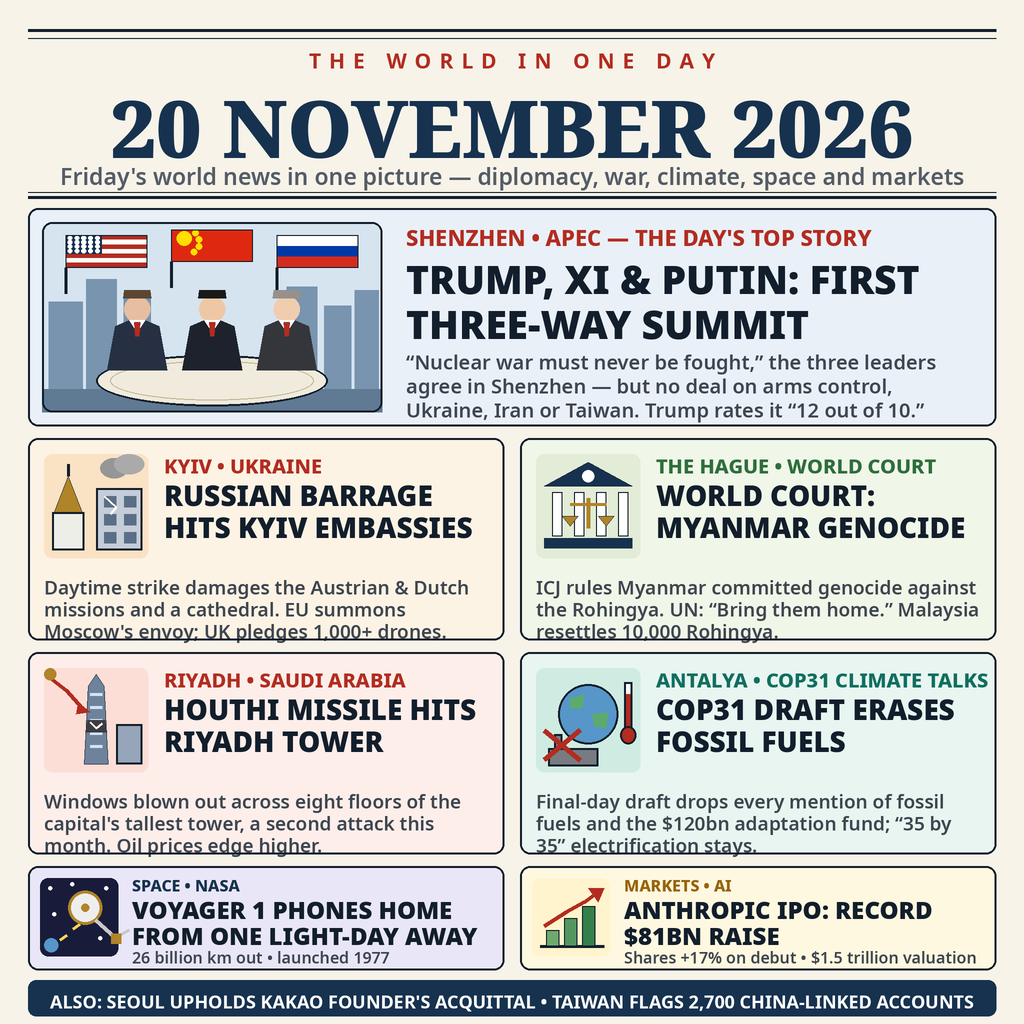
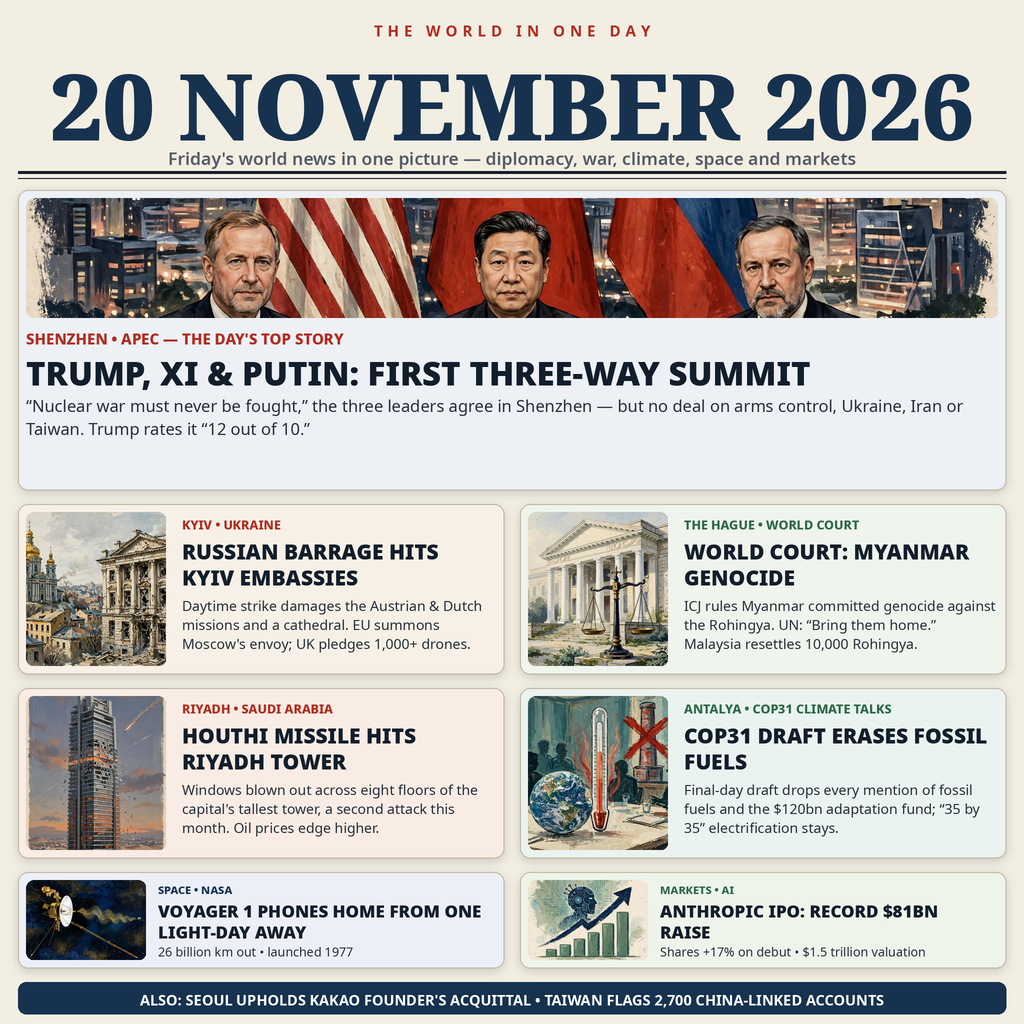
Replace entry image with illustrated v2 (painterly panels)

diff --git a/build_entry2.py b/build_entry2.py
@@ -1,0 +1,225 @@
+#!/usr/bin/env python3
+"""Version 2 of the front page for make.fun's "Sum up 20 November's
+world news in one image" bounty (news-image-20261120).
+
+Same reporting and words as build_entry.py, but the panels carry
+rich painterly illustrations (the art-*.webp files in this repo,
+drawn for this entry) instead of flat pictograms, so the page reads like an
+illustrated newspaper front page. All type is still rendered in
+code, so the date and headlines stay perfectly legible.
+
+Drawn at 2x and downscaled to 1024x1024. If the PNG would exceed
+the bounty's 1 MiB cap it is palette-quantised until it fits.
+"""
+
+import os
+
+from PIL import Image, ImageDraw, ImageFilter, ImageFont, ImageOps
+
+S = 2
+SIZE = 1024 * S
+PAPER = (243, 238, 226)
+INK = (18, 30, 43)
+NAVY = (22, 50, 79)
+RED = (178, 44, 32)
+GREEN = (46, 106, 72)
+GREY = (84, 92, 102)
+WHITE = (255, 255, 255)
+LINE = (190, 182, 160)
+
+FONT_DIR = "/usr/share/fonts/truetype/noto/"
+SERIF_BLACK = FONT_DIR + "NotoSerif-Black.ttf"
+SANS_BLACK = FONT_DIR + "NotoSans-Black.ttf"
+SANS_XBOLD = FONT_DIR + "NotoSans-ExtraBold.ttf"
+SANS_BOLD = FONT_DIR + "NotoSans-Bold.ttf"
+SANS_SEMI = FONT_DIR + "NotoSans-SemiBold.ttf"
+SANS_REG = FONT_DIR + "NotoSans-Regular.ttf"
+
+HERE = os.path.dirname(os.path.abspath(__file__))
+ASSETS = HERE
+
+
+def font(path, size):
+    return ImageFont.truetype(path, int(size * S))
+
+
+def sc(box):
+    return tuple(int(v * S) for v in box)
+
+
+class Canvas:
+    def __init__(self):
+        self.img = Image.new("RGB", (SIZE, SIZE), PAPER)
+        self.d = ImageDraw.Draw(self.img)
+
+    def rrect(self, box, radius, fill=None, outline=None, width=1):
+        self.d.rounded_rectangle(sc(box), radius=int(radius * S),
+                                 fill=fill, outline=outline,
+                                 width=int(width * S))
+
+    def line(self, pts, fill=INK, width=2):
+        self.d.line([(int(x * S), int(y * S)) for x, y in pts],
+                    fill=fill, width=int(width * S))
+
+    def text(self, pos, s, fnt, fill=INK, anchor="la"):
+        self.d.text((pos[0] * S, pos[1] * S), s, font=fnt, fill=fill,
+                    anchor=anchor)
+
+    def textw(self, s, fnt):
+        return self.d.textlength(s, font=fnt) / S
+
+
+def wrap(c, s, fnt, maxw):
+    words, lines, cur = s.split(), [], ""
+    for w in words:
+        trial = (cur + " " + w).strip()
+        if c.textw(trial, fnt) <= maxw or not cur:
+            cur = trial
+        else:
+            lines.append(cur)
+            cur = w
+    if cur:
+        lines.append(cur)
+    return lines
+
+
+def block(c, pos, s, fnt, maxw, leading, fill=INK):
+    y = pos[1]
+    for ln in wrap(c, s, fnt, maxw):
+        c.text((pos[0], y), ln, fnt, fill)
+        y += leading
+    return y
+
+
+def spaced(c, cx, y, s, fnt, fill, gap=5):
+    widths = [c.textw(ch, fnt) for ch in s]
+    total = sum(widths) + gap * (len(s) - 1)
+    x = cx - total / 2
+    for ch, w in zip(s, widths):
+        c.text((x, y), ch, fnt, fill)
+        x += w + gap
+
+
+def shadow(c, box, radius=10):
+    layer = Image.new("L", (SIZE, SIZE), 0)
+    ld = ImageDraw.Draw(layer)
+    ld.rounded_rectangle(sc((box[0], box[1] + 3, box[2], box[3] + 3)),
+                         radius=int(radius * S), fill=52)
+    layer = layer.filter(ImageFilter.GaussianBlur(5 * S))
+    c.img.paste((40, 48, 66), (0, 0), layer)
+    c.d = ImageDraw.Draw(c.img)
+
+
+def paste_art(c, name, box, centering=(0.5, 0.5), radius=8):
+    art = Image.open(os.path.join(ASSETS, name)).convert("RGB")
+    w, h = int((box[2] - box[0]) * S), int((box[3] - box[1]) * S)
+    art = ImageOps.fit(art, (w, h), Image.LANCZOS, centering=centering)
+    mask = Image.new("L", (w, h), 0)
+    md = ImageDraw.Draw(mask)
+    md.rounded_rectangle((0, 0, w, h), radius=int(radius * S), fill=255)
+    c.img.paste(art, (int(box[0] * S), int(box[1] * S)), mask)
+    c.d = ImageDraw.Draw(c.img)
+
+
+def masthead(c):
+    spaced(c, 512, 20, "THE WORLD IN ONE DAY", font(SANS_BOLD, 15), RED)
+    c.text((512, 42), "20 NOVEMBER 2026", font(SERIF_BLACK, 92),
+           NAVY, anchor="ma")
+    c.text((512, 146), "Friday's world news in one picture — diplomacy, "
+           "war, climate, space and markets", font(SANS_SEMI, 17.5),
+           GREY, anchor="ma")
+    c.line([(18, 172), (1006, 172)], INK, 3)
+    c.line([(18, 178), (1006, 178)], INK, 1)
+
+
+def hero(c):
+    box = (18, 190, 1006, 490)
+    shadow(c, box)
+    c.rrect(box, 10, fill=(237, 241, 246), outline=LINE, width=1)
+    paste_art(c, "art-hero.webp", (26, 198, 998, 318), centering=(0.5, 0.62))
+    c.text((26, 328), "SHENZHEN • APEC — THE DAY'S TOP STORY",
+           font(SANS_XBOLD, 15), RED)
+    c.text((26, 350), "TRUMP, XI & PUTIN: FIRST THREE-WAY SUMMIT",
+           font(SANS_BLACK, 33), INK)
+    block(c, (26, 394), "“Nuclear war must never be fought,” the three "
+          "leaders agree in Shenzhen — but no deal on arms control, "
+          "Ukraine, Iran or Taiwan. Trump rates it “12 out of 10.”",
+          font(SANS_REG, 16.5), 950, 23, (40, 48, 58))
+
+
+def panel(c, box, tint, art, centering, kicker, kcol, headline, sub):
+    shadow(c, box)
+    c.rrect(box, 10, fill=tint, outline=LINE, width=1)
+    x, y = box[0], box[1]
+    paste_art(c, art, (x + 8, y + 8, x + 148, y + 162),
+              centering=centering)
+    c.text((x + 164, y + 12), kicker, font(SANS_XBOLD, 12.5), kcol)
+    block(c, (x + 164, y + 33), headline, font(SANS_BLACK, 21), 312, 26)
+    block(c, (x + 164, y + 92), sub, font(SANS_REG, 14), 312, 19,
+          (40, 48, 58))
+
+
+def mini(c, box, tint, art, centering, kicker, kcol, headline, sub):
+    shadow(c, box)
+    c.rrect(box, 10, fill=tint, outline=LINE, width=1)
+    x, y = box[0], box[1]
+    paste_art(c, art, (x + 8, y + 8, x + 128, y + 88),
+              centering=centering)
+    c.text((x + 140, y + 10), kicker, font(SANS_XBOLD, 11), kcol)
+    block(c, (x + 140, y + 27), headline, font(SANS_BLACK, 17), 330, 21)
+    c.text((x + 140, y + 71), sub, font(SANS_REG, 12.5), (40, 48, 58))
+
+
+def build():
+    c = Canvas()
+    masthead(c)
+    hero(c)
+    panel(c, (18, 504, 504, 674), (247, 240, 230), "art-kyiv.webp", (0.5, 0.4),
+          "KYIV • UKRAINE", RED, "RUSSIAN BARRAGE HITS KYIV EMBASSIES",
+          "Daytime strike damages the Austrian & Dutch missions and a "
+          "cathedral. EU summons Moscow's envoy; UK pledges 1,000+ "
+          "drones.")
+    panel(c, (520, 504, 1006, 674), (239, 244, 236), "art-court.webp",
+          (0.5, 0.5), "THE HAGUE • WORLD COURT", GREEN,
+          "WORLD COURT: MYANMAR GENOCIDE",
+          "ICJ rules Myanmar committed genocide against the Rohingya. "
+          "UN: “Bring them home.” Malaysia resettles 10,000 Rohingya.")
+    panel(c, (18, 688, 504, 858), (249, 236, 228), "art-riyadh.webp",
+          (0.5, 0.22), "RIYADH • SAUDI ARABIA", RED,
+          "HOUTHI MISSILE HITS RIYADH TOWER",
+          "Windows blown out across eight floors of the capital's "
+          "tallest tower, a second attack this month. Oil prices edge "
+          "higher.")
+    panel(c, (520, 688, 1006, 858), (234, 243, 240), "art-cop.webp",
+          (0.5, 0.5), "ANTALYA • COP31 CLIMATE TALKS", GREEN,
+          "COP31 DRAFT ERASES FOSSIL FUELS",
+          "Final-day draft drops every mention of fossil fuels and "
+          "the $120bn adaptation fund; “35 by 35” electrification "
+          "stays.")
+    mini(c, (18, 872, 504, 968), (236, 239, 247), "art-voyager.webp",
+         (0.30, 0.5), "SPACE • NASA", NAVY,
+         "VOYAGER 1 PHONES HOME FROM ONE LIGHT-DAY AWAY",
+         "26 billion km out • launched 1977")
+    mini(c, (520, 872, 1006, 968), (238, 244, 234), "art-markets.webp",
+         (0.5, 0.35), "MARKETS • AI", GREEN,
+         "ANTHROPIC IPO: RECORD $81BN RAISE",
+         "Shares +17% on debut • $1.5 trillion valuation")
+    c.rrect((18, 982, 1006, 1014), 8, fill=NAVY)
+    c.text((512, 990), "ALSO: SEOUL UPHOLDS KAKAO FOUNDER'S ACQUITTAL • "
+           "TAIWAN FLAGS 2,700 CHINA-LINKED ACCOUNTS",
+           font(SANS_BOLD, 14.5), WHITE, anchor="ma")
+    out = c.img.resize((1024, 1024), Image.LANCZOS)
+    path = os.path.join(HERE, "entry.png")
+    out.save(path)
+    size = os.path.getsize(path)
+    if size > 1_000_000:
+        out = out.quantize(colors=256, method=Image.FASTOCTREE,
+                           dither=Image.FLOYDSTEINBERG).convert("RGB")
+        out.save(path, optimize=True)
+        size = os.path.getsize(path)
+    print("wrote", path, size, "bytes")
+    return path
+
+
+if __name__ == "__main__":
+    build()

diff --git a/README.md b/README.md
@@ -10,9 +10,11 @@ summit in Shenzhen, the Russian barrage that damaged embassies in
 Kyiv, the World Court's Myanmar genocide verdict, the Houthi
 missile that hit Riyadh's tallest tower, COP31's draft deal with
 fossil fuels erased, Voyager 1 phoning home from one light-day
-away, and Anthropic's record $81bn IPO. The image is drawn by
-`build_entry.py` (see `SOURCES.md` for the reporting behind each
-story); `main.py` writes it to the output as `entry.png`.
+away, and Anthropic's record $81bn IPO. The page is composed by
+`build_entry2.py` from the painterly panel illustrations in the
+`art-*.webp` files (see `SOURCES.md` for the reporting behind each
+story); `main.py` writes the finished image to the output as
+`entry.png`.
 
 ## Run it
 
